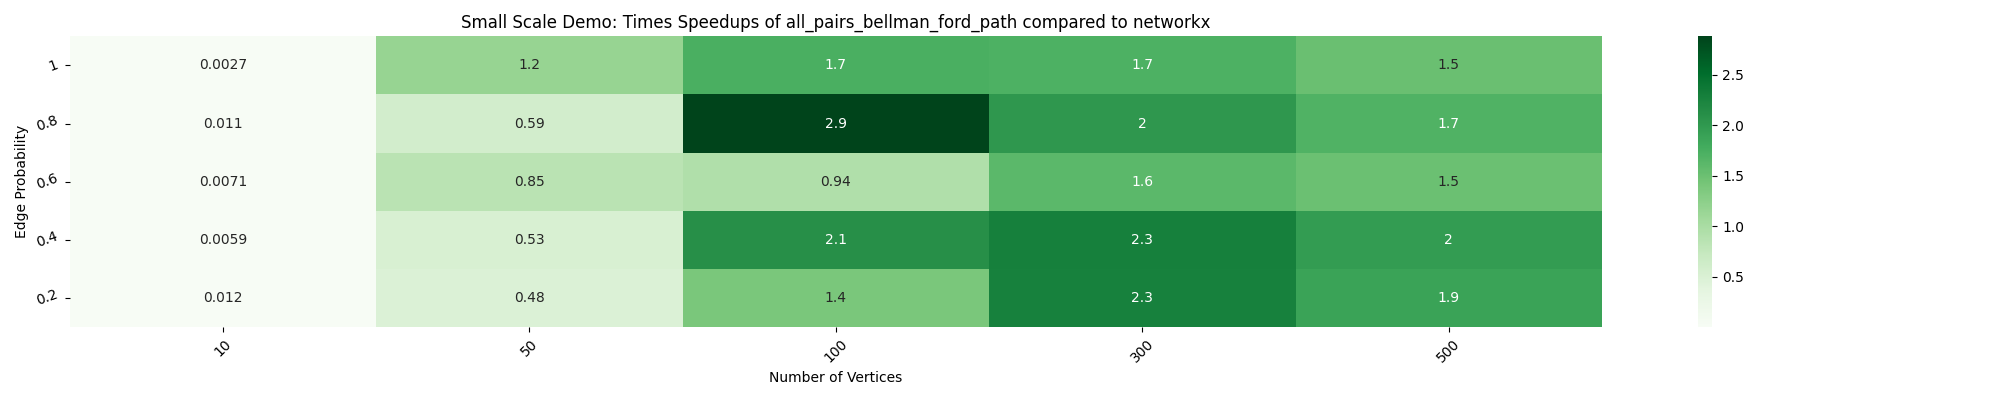
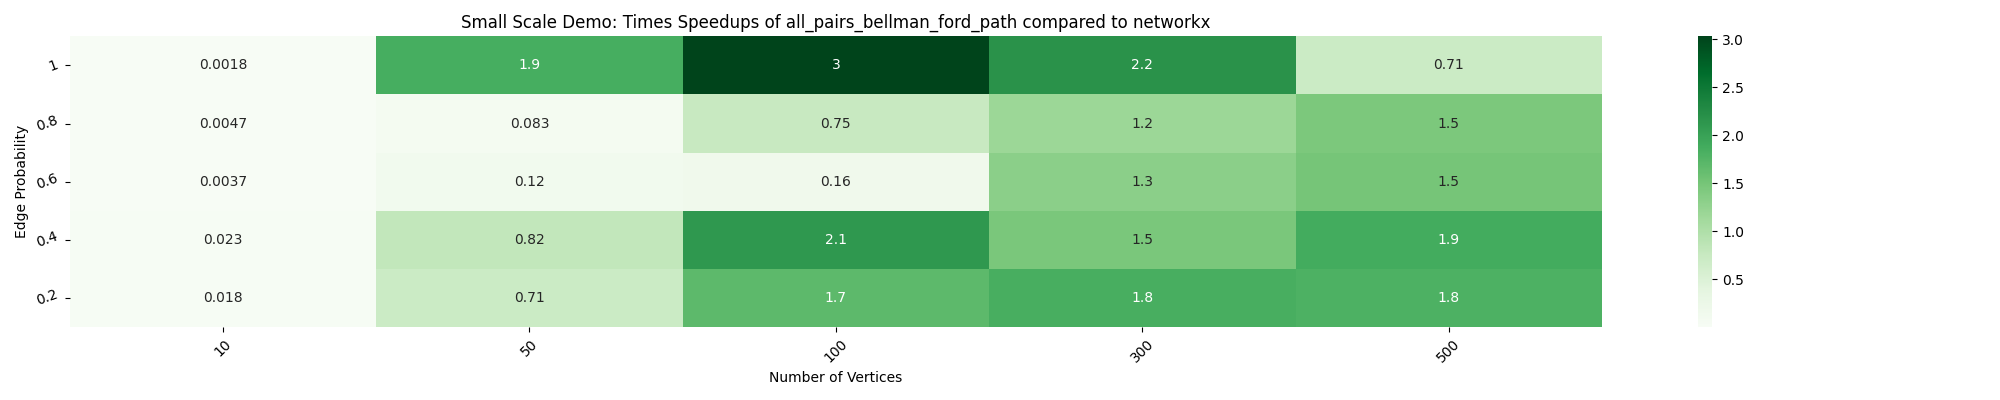
updated all_pairs_bellman_ford_path

diff --git a/nx_parallel/algorithms/shortest_paths/weighted.py b/nx_parallel/algorithms/shortest_paths/weighted.py
@@ -2,27 +2,26 @@ from joblib import Parallel, delayed
 from networkx.algorithms.shortest_paths.weighted import single_source_bellman_ford_path
 import nx_parallel as nxp
 
-__all__ = ["all_pairs_bellman_ford_path"]
+__all__ = [
+    "all_pairs_bellman_ford_path",
+]
 
 
 def all_pairs_bellman_ford_path(G, weight="weight"):
-    """The parallel computation is implemented by computing the
-    shortest paths for each node concurrently.
+    """This parallel implementation first creates a generator to lazily compute
+    shortest paths for each node, and then employs joblib's `Parallel` function
+    to execute these computations in parallel across all available CPU cores.
 
     networkx.all_pairs_bellman_ford_path : https://networkx.org/documentation/stable/reference/algorithms/generated/networkx.algorithms.shortest_paths.weighted.all_pairs_bellman_ford_path.html#all-pairs-bellman-ford-path
     """
 
-    def _calculate_shortest_paths_subset(source):
+    def _process_node(source):
         return (source, single_source_bellman_ford_path(G, source, weight=weight))
 
     if hasattr(G, "graph_object"):
         G = G.graph_object
 
-    cpu_count = nxp.cpu_count()
+    paths_generator = (delayed(_process_node)(source) for source in G.nodes)
 
-    nodes = G.nodes
-
-    paths = Parallel(n_jobs=cpu_count, return_as="generator")(
-        delayed(_calculate_shortest_paths_subset)(source) for source in nodes
-    )
-    return paths
+    for path in Parallel(n_jobs=nxp.cpu_count())(paths_generator):
+        yield path
